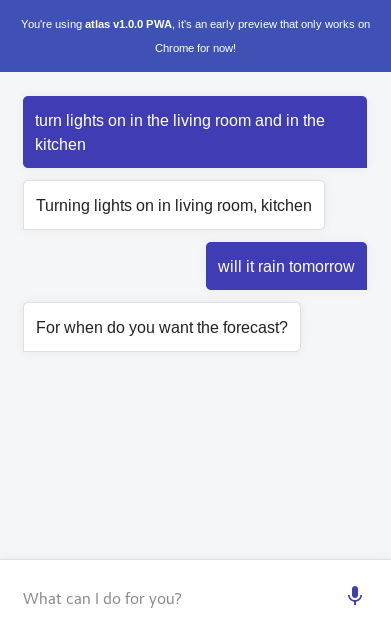
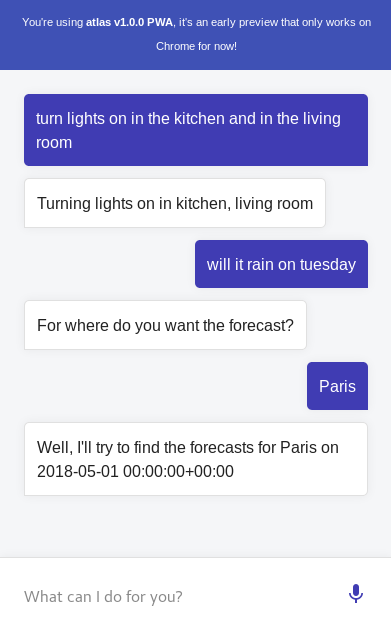
Added Docker support + Docker sample

diff --git a/example/README.md b/example/README.md
@@ -3,20 +3,23 @@ Example setup
 
 ## Usage
 
-- Install the snips backend with `pip install snips-nlu`
-- Launch a MQTT broker such as **mosquitto**
-- Launch atlas with `atlas` inside this directory
+### With Docker
+
+- `docker-compose up`
 - Wait for the skills to be registered and access `http://localhost:5000`
 
-And try saying something such as `turn lights on in the kitchen and in the living room`, `turn lights on` or `will it rain tomorrow`.
+### Without Docker
 
-## Folders
+- Install the snips backend with `pip install snips-nlu`
+- Launch a MQTT broker such as **mosquitto**
+- Launch atlas with `atlas -c atlas.local.yml` inside this directory
+- Wait for the skills to be registered and access `http://localhost:5000`
+
+And try saying something such as `turn lights on in the kitchen and in the living room`, `turn lights on` or `will it rain on tuesday`.
+
+## Folders explanation
 
 - `training`: Contains training data for the interpreter
 - `env`: Contains user configuration
 - `skills`: Contains skills executed by the executor
 - `data`: Contains trained data to speed up the loading time
-
-## Known limitations
-
-When a skill ask for a slot value, it only handle one value and not an array of value. I'm on it!
